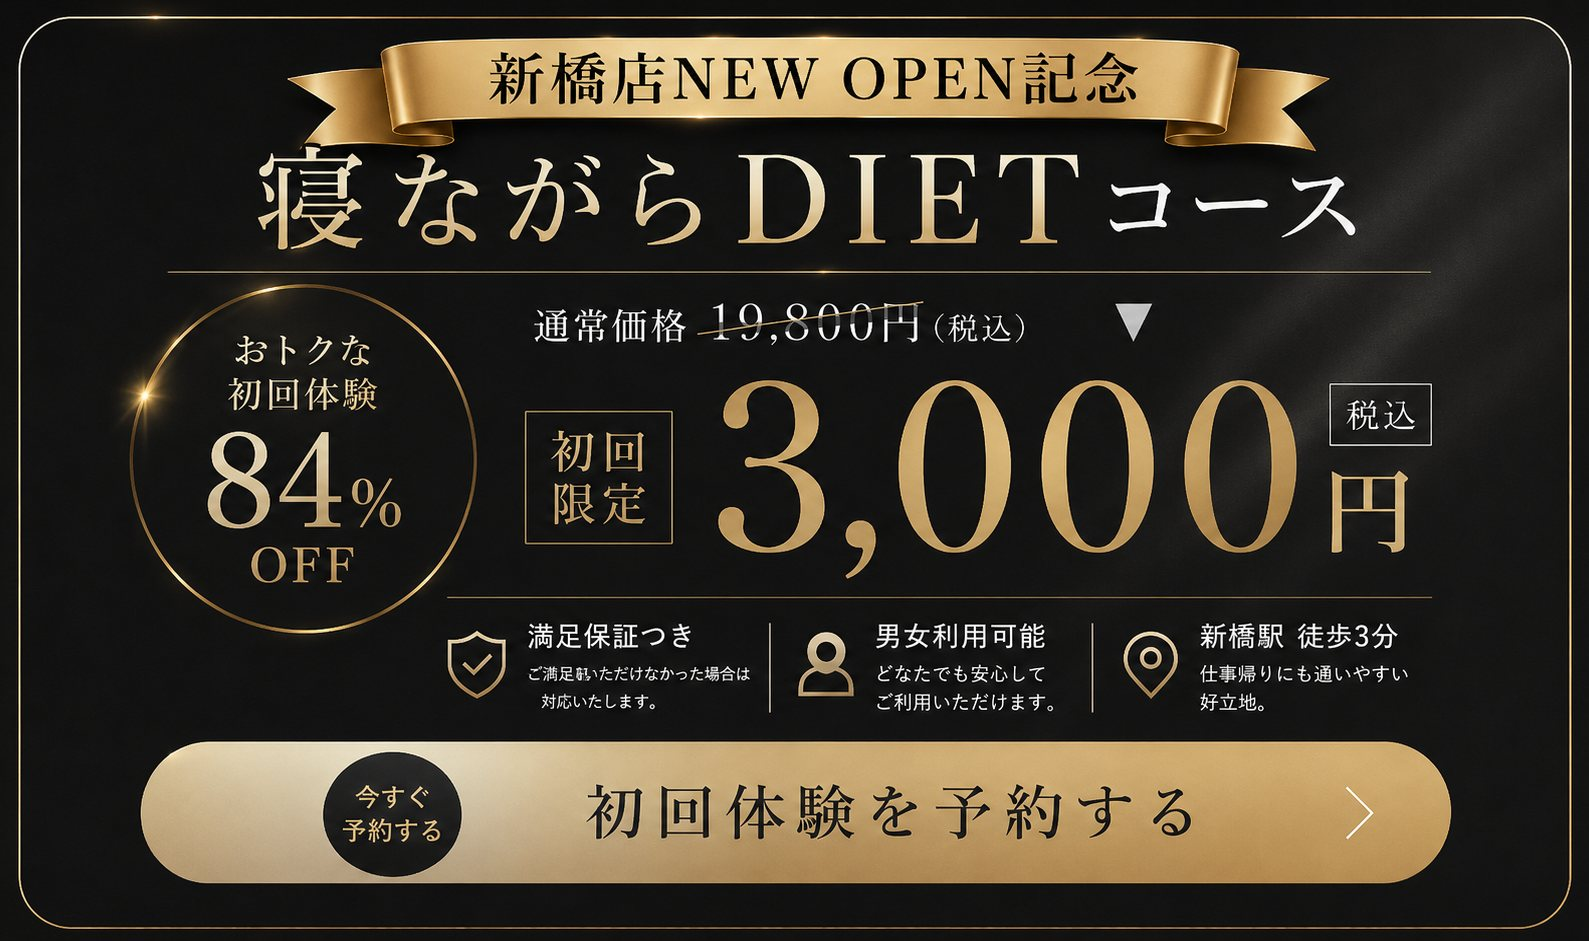
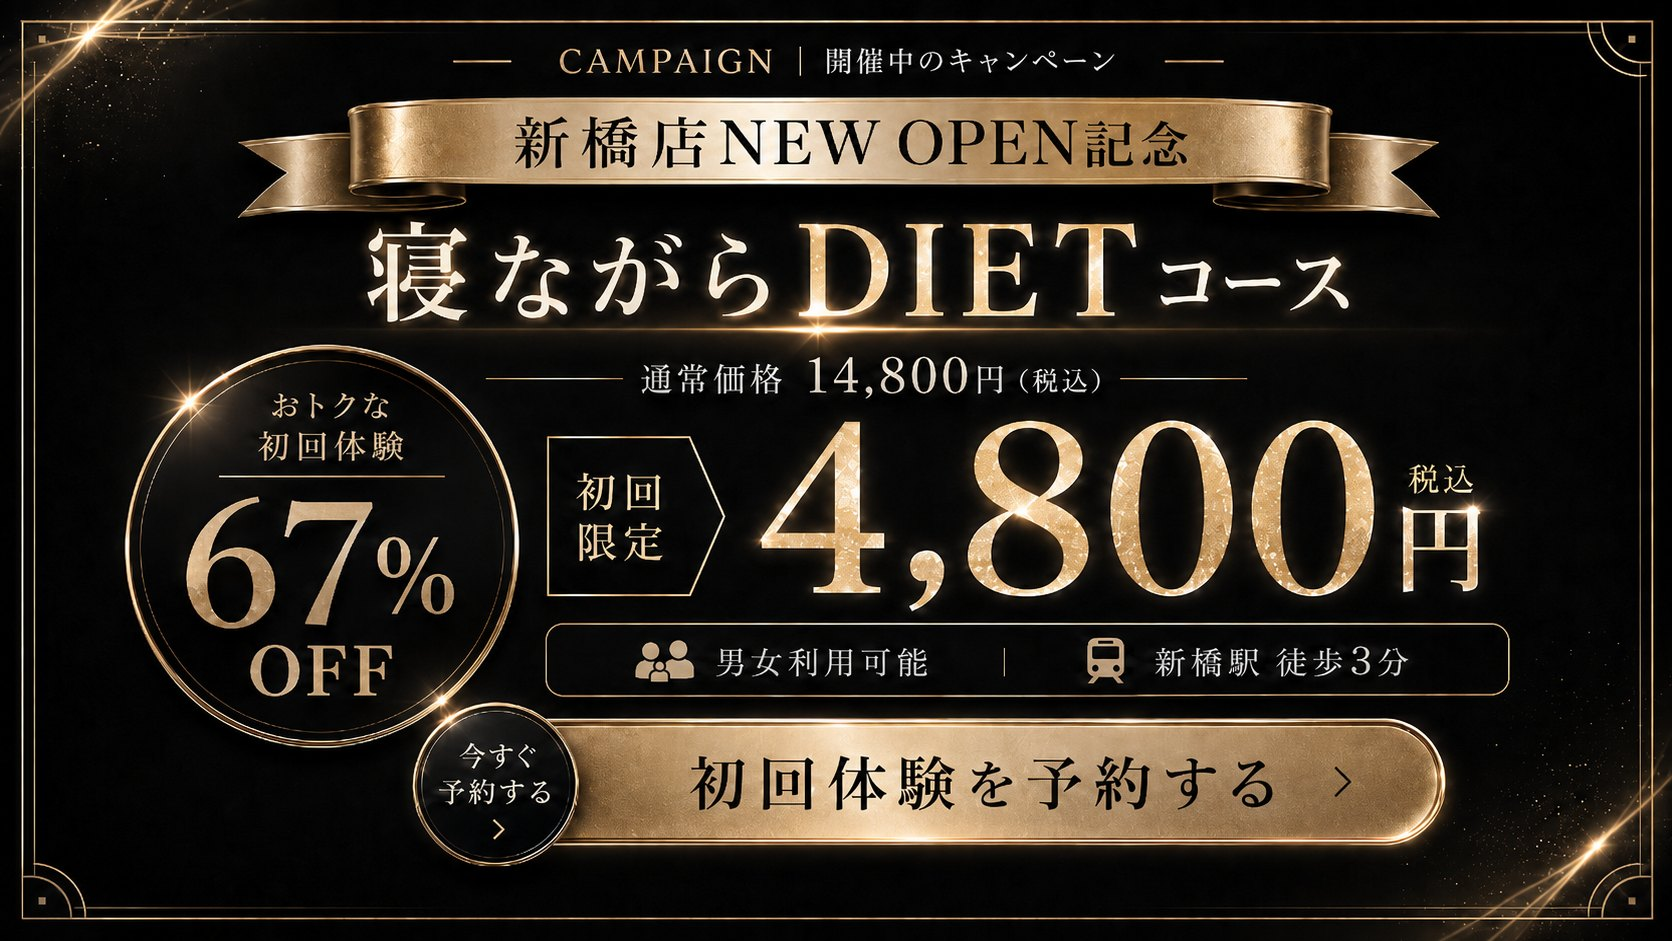
update: 2026-08-09 09:01

diff --git a/index.html b/index.html
@@ -389,7 +389,7 @@ var t0=Date.now();window.addEventListener('load',function(){setTimeout(hide,Math
   <div class="wrap">
     <div class="kicker c rv">Campaign ｜ 開催中のキャンペーン</div>
     <a class="offer-banner rv" href="flow.html" data-cta="banner_offer" style="display:block;transition:.3s" onmouseover="this.style.transform='translateY(-4px)'" onmouseout="this.style.transform='none'">
-      <img src="images/campaign-banner.jpg" alt="新橋店NEW OPEN記念｜寝ながらDIETコース 90分｜通常価格14,800円→初回限定4,800円（税込）｜初回体験を予約する" loading="eager">
+      <img src="images/campaign-banner.jpg" alt="新橋店NEW OPEN記念｜寝ながらDIETコース 90分｜通常価格14,800円（税込）→初回限定4,800円（税込）・おトクな初回体験67%OFF｜男女利用可能・新橋駅 徒歩3分｜初回体験を予約する" loading="eager">
     </a>
     <p class="note offer-note rv">※お一人さま1回まで・税込。体験当日のご入会で入会金 ¥16,500 → ¥0（3ヶ月以上のご継続が条件）。</p>
   </div>
